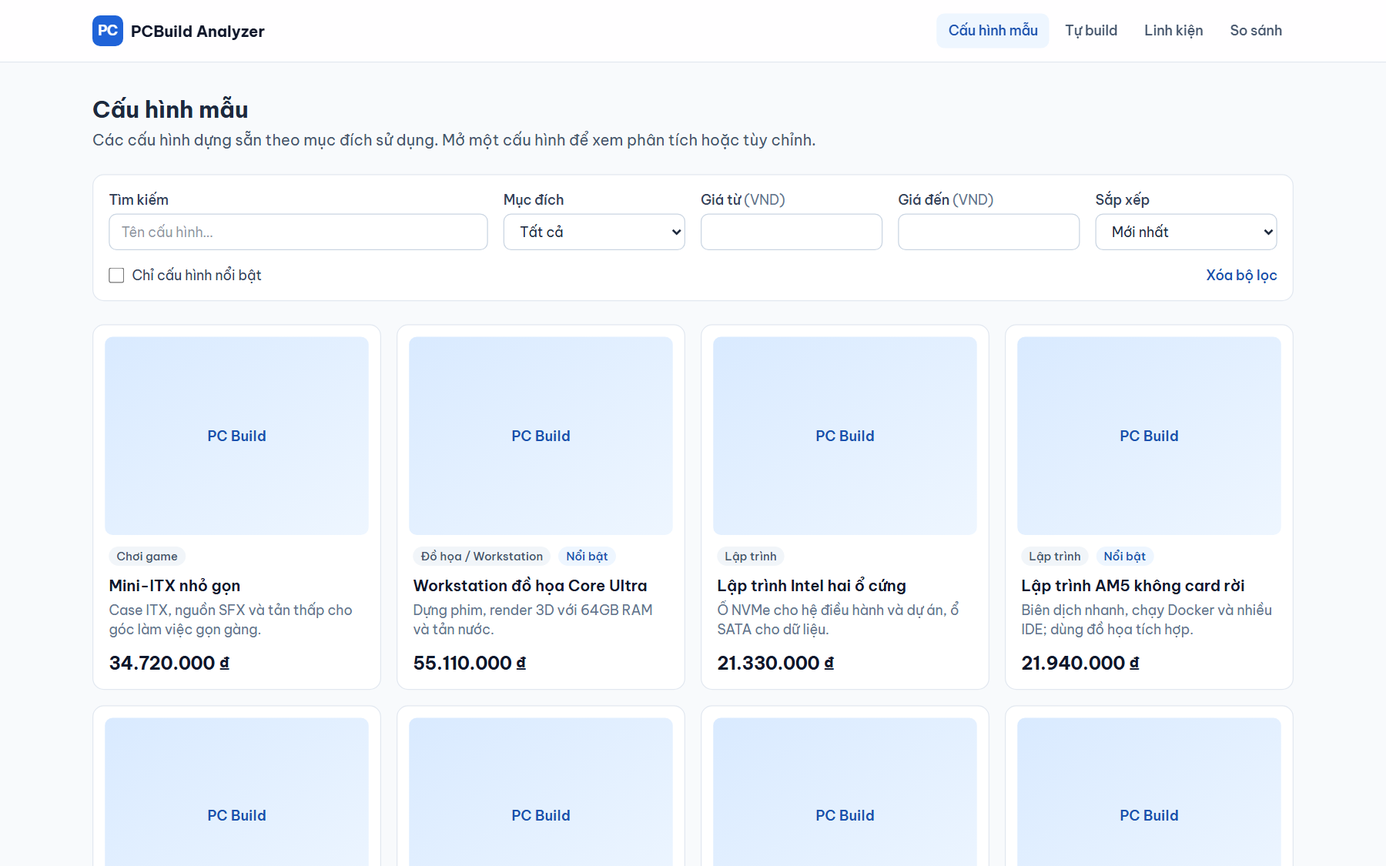
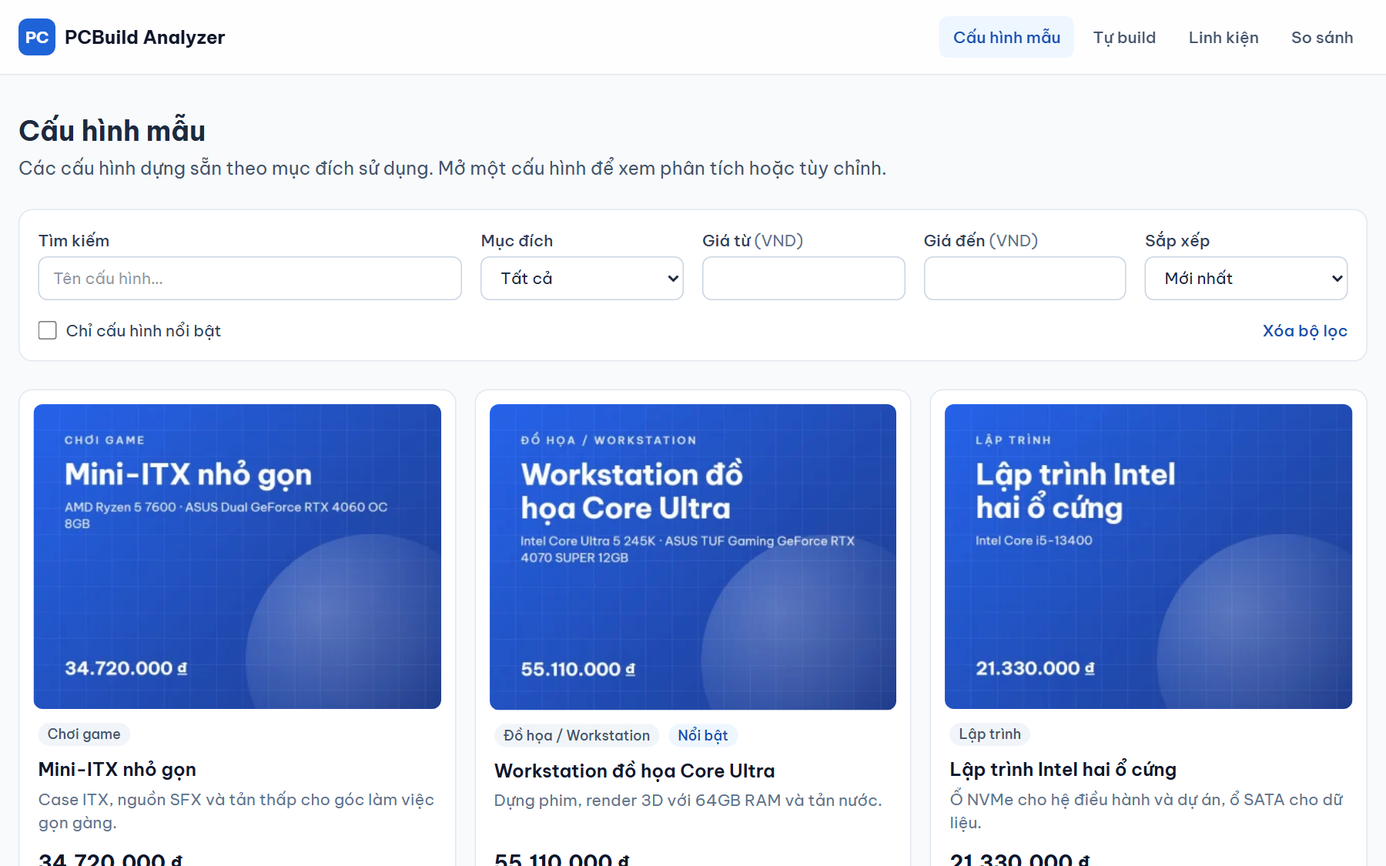
docs: retake the README images now that the real ones are live
The six screenshots were captured before any image had been uploaded, so
every product and build card showed the grey "PC Build" placeholder — the
exact thing the generated cards (D-041) exist to replace.

Also regenerates the architecture diagram: the spec pinned a commit from
before Phase 9, and archify verifies each referenced path at that
revision, so the pin has to move with the code. All 14 referenced files
still exist; the diagram itself is unchanged, since the architecture is.

Refreshes the test and coverage figures, which had drifted (272/966 ->
284/1001, lines 98.48% -> 98.42%), and drops the now-redundant composer
install from the setup steps: the dev container installs into the vendor
volume on first start (D-042).

diff --git a/docs/images/architecture.html b/docs/images/architecture.html
@@ -5086,7 +5086,7 @@ OTHER DEALINGS IN THE FONT SOFTWARE.
     </div>
 
     <script id="archify-guided-views-data" type="application/json">[{"id":"luong-chinh","label":"Luồng request chính","focus":["users","react","routes","controllers","services","repos","db"],"note":"Đường đi của một request từ trình duyệt xuống tới database."},{"id":"engine","label":"Engine phân tích","focus":["services","buildconfig","compat","analysis"],"note":"Phần lõi của dự án: PHP thuần, không chạm database hay HTTP."},{"id":"du-lieu","label":"Dữ liệu và ảnh","focus":["services","repos","db","cloudinary"],"note":"Hai nơi duy nhất chạm ra bên ngoài: database và Cloudinary."}]</script>
-    <script id="archify-source-evidence-data" type="application/json">{"schemaVersion":1,"verified":true,"repository":{"url":"https://github.com/tridinh288/PCBuild-Analyzer","revision":"6f85e0a82bc0f354fad57e46c1571666c226990b","shortRevision":"6f85e0a","label":"tridinh288/PCBuild-Analyzer","href":"https://github.com/tridinh288/PCBuild-Analyzer/tree/6f85e0a82bc0f354fad57e46c1571666c226990b"},"referenceCount":14,"nodes":{"react":[{"path":"frontend/src/services/api.js","label":"api.js","href":"https://github.com/tridinh288/PCBuild-Analyzer/blob/6f85e0a82bc0f354fad57e46c1571666c226990b/frontend/src/services/api.js"},{"path":"frontend/src/reducers/builderReducer.js","label":"builderReducer","href":"https://github.com/tridinh288/PCBuild-Analyzer/blob/6f85e0a82bc0f354fad57e46c1571666c226990b/frontend/src/reducers/builderReducer.js"}],"routes":[{"path":"backend/routes/api.php","label":"api.php","href":"https://github.com/tridinh288/PCBuild-Analyzer/blob/6f85e0a82bc0f354fad57e46c1571666c226990b/backend/routes/api.php"},{"path":"backend/config/trustedproxy.php","label":"trusted proxies","href":"https://github.com/tridinh288/PCBuild-Analyzer/blob/6f85e0a82bc0f354fad57e46c1571666c226990b/backend/config/trustedproxy.php"}],"controllers":[{"path":"backend/app/Http/Controllers/Api/BuilderController.php","label":"BuilderController","href":"https://github.com/tridinh288/PCBuild-Analyzer/blob/6f85e0a82bc0f354fad57e46c1571666c226990b/backend/app/Http/Controllers/Api/BuilderController.php"},{"path":"backend/app/Http/Requests/BuilderOptionsRequest.php","label":"Form Request","href":"https://github.com/tridinh288/PCBuild-Analyzer/blob/6f85e0a82bc0f354fad57e46c1571666c226990b/backend/app/Http/Requests/BuilderOptionsRequest.php"}],"compat":[{"path":"backend/app/Domain/Compatibility/CompatibilityEngine.php","label":"CompatibilityEngine","href":"https://github.com/tridinh288/PCBuild-Analyzer/blob/6f85e0a82bc0f354fad57e46c1571666c226990b/backend/app/Domain/Compatibility/CompatibilityEngine.php"},{"path":"backend/app/Domain/Compatibility/Rules/PsuWattageRule.php","label":"PsuWattageRule","href":"https://github.com/tridinh288/PCBuild-Analyzer/blob/6f85e0a82bc0f354fad57e46c1571666c226990b/backend/app/Domain/Compatibility/Rules/PsuWattageRule.php"}],"services":[{"path":"backend/app/Services/BuilderService.php","label":"BuilderService","href":"https://github.com/tridinh288/PCBuild-Analyzer/blob/6f85e0a82bc0f354fad57e46c1571666c226990b/backend/app/Services/BuilderService.php"}],"buildconfig":[{"path":"backend/app/Domain/Configuration/BuildConfiguration.php","label":"BuildConfiguration","href":"https://github.com/tridinh288/PCBuild-Analyzer/blob/6f85e0a82bc0f354fad57e46c1571666c226990b/backend/app/Domain/Configuration/BuildConfiguration.php"},{"path":"backend/app/Domain/Hardware/HardwareFactory.php","label":"HardwareFactory","href":"https://github.com/tridinh288/PCBuild-Analyzer/blob/6f85e0a82bc0f354fad57e46c1571666c226990b/backend/app/Domain/Hardware/HardwareFactory.php"}],"repos":[{"path":"backend/app/Repositories/Eloquent/ProductRepository.php","label":"ProductRepository","href":"https://github.com/tridinh288/PCBuild-Analyzer/blob/6f85e0a82bc0f354fad57e46c1571666c226990b/backend/app/Repositories/Eloquent/ProductRepository.php"}],"analysis":[{"path":"backend/app/Domain/Analysis/BuildAnalyzer.php","label":"BuildAnalyzer","href":"https://github.com/tridinh288/PCBuild-Analyzer/blob/6f85e0a82bc0f354fad57e46c1571666c226990b/backend/app/Domain/Analysis/BuildAnalyzer.php"},{"path":"backend/app/Domain/Analysis/Strategies/GamingStrategy.php","label":"GamingStrategy","href":"https://github.com/tridinh288/PCBuild-Analyzer/blob/6f85e0a82bc0f354fad57e46c1571666c226990b/backend/app/Domain/Analysis/Strategies/GamingStrategy.php"}]}}</script>
+    <script id="archify-source-evidence-data" type="application/json">{"schemaVersion":1,"verified":true,"repository":{"url":"https://github.com/tridinh288/PCBuild-Analyzer","revision":"adf1fece229d5f34e9536079257bf424cc2a160e","shortRevision":"adf1fec","label":"tridinh288/PCBuild-Analyzer","href":"https://github.com/tridinh288/PCBuild-Analyzer/tree/adf1fece229d5f34e9536079257bf424cc2a160e"},"referenceCount":14,"nodes":{"react":[{"path":"frontend/src/services/api.js","label":"api.js","href":"https://github.com/tridinh288/PCBuild-Analyzer/blob/adf1fece229d5f34e9536079257bf424cc2a160e/frontend/src/services/api.js"},{"path":"frontend/src/reducers/builderReducer.js","label":"builderReducer","href":"https://github.com/tridinh288/PCBuild-Analyzer/blob/adf1fece229d5f34e9536079257bf424cc2a160e/frontend/src/reducers/builderReducer.js"}],"routes":[{"path":"backend/routes/api.php","label":"api.php","href":"https://github.com/tridinh288/PCBuild-Analyzer/blob/adf1fece229d5f34e9536079257bf424cc2a160e/backend/routes/api.php"},{"path":"backend/config/trustedproxy.php","label":"trusted proxies","href":"https://github.com/tridinh288/PCBuild-Analyzer/blob/adf1fece229d5f34e9536079257bf424cc2a160e/backend/config/trustedproxy.php"}],"controllers":[{"path":"backend/app/Http/Controllers/Api/BuilderController.php","label":"BuilderController","href":"https://github.com/tridinh288/PCBuild-Analyzer/blob/adf1fece229d5f34e9536079257bf424cc2a160e/backend/app/Http/Controllers/Api/BuilderController.php"},{"path":"backend/app/Http/Requests/BuilderOptionsRequest.php","label":"Form Request","href":"https://github.com/tridinh288/PCBuild-Analyzer/blob/adf1fece229d5f34e9536079257bf424cc2a160e/backend/app/Http/Requests/BuilderOptionsRequest.php"}],"compat":[{"path":"backend/app/Domain/Compatibility/CompatibilityEngine.php","label":"CompatibilityEngine","href":"https://github.com/tridinh288/PCBuild-Analyzer/blob/adf1fece229d5f34e9536079257bf424cc2a160e/backend/app/Domain/Compatibility/CompatibilityEngine.php"},{"path":"backend/app/Domain/Compatibility/Rules/PsuWattageRule.php","label":"PsuWattageRule","href":"https://github.com/tridinh288/PCBuild-Analyzer/blob/adf1fece229d5f34e9536079257bf424cc2a160e/backend/app/Domain/Compatibility/Rules/PsuWattageRule.php"}],"services":[{"path":"backend/app/Services/BuilderService.php","label":"BuilderService","href":"https://github.com/tridinh288/PCBuild-Analyzer/blob/adf1fece229d5f34e9536079257bf424cc2a160e/backend/app/Services/BuilderService.php"}],"buildconfig":[{"path":"backend/app/Domain/Configuration/BuildConfiguration.php","label":"BuildConfiguration","href":"https://github.com/tridinh288/PCBuild-Analyzer/blob/adf1fece229d5f34e9536079257bf424cc2a160e/backend/app/Domain/Configuration/BuildConfiguration.php"},{"path":"backend/app/Domain/Hardware/HardwareFactory.php","label":"HardwareFactory","href":"https://github.com/tridinh288/PCBuild-Analyzer/blob/adf1fece229d5f34e9536079257bf424cc2a160e/backend/app/Domain/Hardware/HardwareFactory.php"}],"repos":[{"path":"backend/app/Repositories/Eloquent/ProductRepository.php","label":"ProductRepository","href":"https://github.com/tridinh288/PCBuild-Analyzer/blob/adf1fece229d5f34e9536079257bf424cc2a160e/backend/app/Repositories/Eloquent/ProductRepository.php"}],"analysis":[{"path":"backend/app/Domain/Analysis/BuildAnalyzer.php","label":"BuildAnalyzer","href":"https://github.com/tridinh288/PCBuild-Analyzer/blob/adf1fece229d5f34e9536079257bf424cc2a160e/backend/app/Domain/Analysis/BuildAnalyzer.php"},{"path":"backend/app/Domain/Analysis/Strategies/GamingStrategy.php","label":"GamingStrategy","href":"https://github.com/tridinh288/PCBuild-Analyzer/blob/adf1fece229d5f34e9536079257bf424cc2a160e/backend/app/Domain/Analysis/Strategies/GamingStrategy.php"}]}}</script>
     <script id="archify-i18n-data" type="application/json">{"locale":"en","messages":{"viewer.kind.frontend":"Frontend","viewer.kind.backend":"Backend","viewer.kind.database":"Database","viewer.kind.cloud":"Cloud","viewer.kind.security":"Security","viewer.kind.messagebus":"Message bus","viewer.kind.external":"External","viewer.kind.neutral":"Neutral","viewer.kind.node":"Node","viewer.kind.start":"Start","viewer.kind.active":"Active","viewer.kind.waiting":"Waiting","viewer.kind.decision":"Decision","viewer.kind.success":"Success","viewer.kind.failure":"Failure","viewer.toolbar.actions":"Diagram actions","viewer.theme.toggle.title":"Toggle theme (T)","viewer.theme.toggle":"Toggle color theme","viewer.theme.dark":"Dark","viewer.theme.light":"Light","viewer.preset.choose.title":"Choose visual style (S cycles)","viewer.preset.choose":"Choose visual style","viewer.preset.style":"Style","viewer.preset.menu":"Visual style","viewer.preset.identity":"Visual identity","viewer.preset.cycles":"S cycles","viewer.preset.classic":"Classic","viewer.preset.classic.short":"Classic","viewer.preset.classic.hint":"Stable technical default","viewer.preset.flow":"Signal Flow","viewer.preset.flow.short":"Flow","viewer.preset.flow.hint":"Motion-forward presentation","viewer.preset.blueprint":"Blueprint","viewer.preset.blueprint.hint":"Engineering review","viewer.preset.editorial":"Editorial","viewer.preset.editorial.hint":"Publication and launch notes","viewer.preset.badge.signalFlow":"SIGNAL FLOW","viewer.preset.badge.blueprint":"BLUEPRINT / REV 01","viewer.preset.badge.editorial":"EDITORIAL / FIELD NOTE","viewer.preset.badge.editorialPlate":"ARCHIFY / PLATE 04","viewer.preset.current":"Visual style: {style}. Choose visual style","viewer.motion.live":"Live","viewer.motion.still":"Still","viewer.motion.pause":"Pause motion","viewer.motion.resume":"Resume motion","viewer.motion.reduced":"Motion paused by reduced-motion preference","viewer.motion.hidden":"Motion paused while this page is hidden","viewer.motion.yielding":"Pause motion; currently yielding to {owner}","viewer.motion.yielding.title":"Live preview enabled · yielding to {owner}","viewer.owner.story":"the guided story","viewer.owner.chapter":"the active chapter","viewer.owner.chapterPreview":"the chapter delta preview","viewer.owner.handoff":"the chapter handoff","viewer.owner.route":"Route Probe","viewer.owner.lens":"Semantic Lens","viewer.owner.relationship":"Relationship Preview","viewer.owner.intent":"Intent Trace","viewer.owner.focus":"semantic focus","viewer.owner.legend":"legend preview","viewer.owner.reader":"reader interaction","viewer.present.enter":"Enter presentation stage","viewer.present.enter.title":"Presentation stage (F)","viewer.present.exit":"Exit presentation stage","viewer.present.exit.title":"Exit presentation stage (F or Escape)","viewer.present.present":"Present","viewer.present.exit.label":"Exit","viewer.export.button":"Export","viewer.export.button.title":"Export diagram (E)","viewer.export.diagram":"Export diagram","viewer.export.menu":"Export","viewer.export.subtitle":"Portable, clean outputs","viewer.export.share":"Share","viewer.export.shareCard":"Share Card","viewer.export.routeShareCard":"Route Share Card","viewer.export.reachShareCard":"Reach Share Card","viewer.export.copyShareCard":"Copy Share Card","viewer.export.copyDiagram":"Copy diagram","viewer.export.clipboardPng":"PNG to clipboard","viewer.export.raster":"Raster images","viewer.export.image":"Image","viewer.export.lossless":"Lossless image","viewer.export.compact":"Compact image","viewer.export.modern":"Modern image","viewer.export.vectorMotion":"Vector and motion","viewer.export.vectorMotion.heading":"Vector \u0026 motion","viewer.export.editable":"Editable vector","viewer.export.motion6s":"6s motion","viewer.export.unsupported":"Not supported by this browser","viewer.export.clipboardUnsupported":"Clipboard image write not supported by this browser","viewer.export.clipboardUnsupported.period":"Clipboard image write not supported by this browser.","viewer.export.clipboardUnsupported.short":"Clipboard image write not supported in this browser.","viewer.export.motionUnavailable":"Motion capture unavailable in this browser","viewer.export.webmUnavailable":"WebM unavailable in this browser","viewer.export.failed":"Export failed: {message}","viewer.export.unknownVariant":"Unknown Share Card variant: {variant}","viewer.export.routeRequired":"Trace a route before exporting a Route Share Card","viewer.export.reachRequired":"Trace authored reach before exporting a Reach Share Card","viewer.export.unknown":"unknown","viewer.export.routeFailed":"Route Share Card export failed: {message}","viewer.export.reachFailed":"Reach Share Card export failed: {message}","viewer.export.copyFailed":"Copy failed: {message}","viewer.export.copiedPng":"Copied PNG to clipboard","viewer.export.copiedShare":"Copied Share Card","viewer.export.downloadedShare":"Downloaded Share Card","viewer.export.downloadedRoute":"Downloaded Route Share Card","viewer.export.downloadedReach":"Downloaded Reach Share Card","viewer.export.downloadedWebm":"Downloaded WebM","viewer.export.recording":"Recording 6 seconds of motion…","viewer.export.card.routeSummary.one":"Route: {source} → {target} · {count} directed hop","viewer.export.card.routeSummary.other":"Route: {source} → {target} · {count} directed hops","viewer.export.card.reachSummary":"Authored {direction} from {origin} · {nodes} · {links} · max {hops}","viewer.export.card.node.one":"{count} node","viewer.export.card.node.other":"{count} nodes","viewer.export.card.link.one":"{count} link","viewer.export.card.link.other":"{count} links","viewer.export.card.hop.one":"{count} hop","viewer.export.card.hop.other":"{count} hops","viewer.export.card.routeBadge":"ARCHIFY · ROUTE · {hops}","viewer.export.card.reachBadge":"ARCHIFY · {direction} REACH","viewer.export.card.defaultBadge":"ARCHIFY · {preset} · {theme}","viewer.export.direction.upstream":"Upstream","viewer.export.direction.downstream":"Downstream","viewer.export.error.canvasUnavailable":"Canvas unavailable for {label}","viewer.export.error.contextUnavailable":"2D canvas context unavailable for {label}","viewer.export.error.toBlobUnavailable":"canvas.toBlob unavailable for {label}","viewer.export.error.toBlobNull":"canvas.toBlob returned no data for {label}","viewer.export.error.variantsCombined":"Share Card variants cannot be combined","viewer.export.error.viewerState":"Share Card export could not remove temporary viewer state","viewer.export.error.routeState":"Route Card export could not preserve the resolved route safely","viewer.export.error.reachState":"Reach Card export could not preserve authored reach safely","viewer.export.error.webmRequirements":"WebM motion export requires a trace animation and browser MediaRecorder support","viewer.export.error.mediaRecorder":"MediaRecorder failed","viewer.export.error.emptyWebm":"MediaRecorder produced an empty WebM","viewer.export.error.webmBackground":"SVG background could not be loaded for WebM export","viewer.guided.region":"Guided diagram views","viewer.guided.previous":"Previous guided view","viewer.guided.previous.title":"Previous guided view ([)","viewer.guided.next":"Next guided view","viewer.guided.next.title":"Next guided view (])","viewer.guided.views":"Guided views","viewer.guided.explore":"Explore this system","viewer.guided.intro":"Step through curated paths without changing the source diagram.","viewer.guided.trail":"Story trail","viewer.guided.beat":"Beat","viewer.guided.nextBeat":"Next","viewer.guided.play":"Play guided story","viewer.guided.play.title":"Play guided story (P)","viewer.guided.pause":"Pause guided story","viewer.guided.pause.title":"Pause guided story (P)","viewer.guided.replay":"Replay guided story","viewer.guided.replay.title":"Replay guided story (P)","viewer.guided.playStory":"Play story","viewer.guided.pauseStory":"Pause","viewer.guided.replayStory":"Replay story","viewer.guided.motionUnavailable":"Story playback unavailable while motion is Still","viewer.guided.enableMotion":"Switch motion to Live to play the guided story","viewer.guided.selectBeatLink":"Select a Story Beat to copy its exact link","viewer.guided.copyMoment":"Copy moment","viewer.guided.momentCopied":"Moment link copied","viewer.guided.momentCopyFailed":"Could not copy story moment link","viewer.guided.copied":"Copied","viewer.guided.copyFailed":"Copy failed","viewer.guided.showAll":"Show all","viewer.guided.showAll.aria":"Show entire diagram","viewer.guided.chapters":"Story chapters","viewer.guided.storyTrail":"Story trail for {label}: {count} beats","viewer.guided.chapter.open":"Open chapter {index} of {total}: {label}, {count} stops","viewer.guided.chapter.current":"Current chapter {index} of {total}: {label}, {count} stops","viewer.guided.chapter.selectedNodes":"{count} selected nodes","viewer.guided.chapter.stops":"{count} stops","viewer.guided.chapter.stop.one":"{count} stop","viewer.guided.chapter.stop.other":"{count} stops","viewer.guided.chapter.current.title":"{label} — current chapter, {count} stops","viewer.guided.chapter.delta.expanded":"{stay} stay, {enter} enter, {leave} leave","viewer.guided.chapter.delta.aria":"Open chapter {index} of {total}: {label}. Chapter focus delta: {delta}","viewer.guided.chapter.delta.title":"{label} — {delta} chapter focus","viewer.guided.handoff":"{from} → {to} · via {label}","viewer.guided.share.chapter":"Chapter {index} / {total}","viewer.guided.share.initial":"Chapter 01 / 01","viewer.guided.share.default":"Guided chapter","viewer.guided.state.ready":"Ready","viewer.guided.state.playing":"Playing","viewer.guided.state.settled":"Settled","viewer.guided.state.paused":"Paused","viewer.guided.state.pinned":"Pinned","viewer.guided.state.still":"Still","viewer.guided.share.step":"Step {index} / {total} · {label}","viewer.guided.share.staticMoment":"{step} · Static moment","viewer.guided.share.complete":"{count} steps complete · {note}","viewer.guided.share.settled":"Path settled for reading.","viewer.guided.share.staticPath":"{count} steps · Static path","viewer.guided.share.ready":"{count} steps · Ready","viewer.guided.share.aria":"{state} chapter {index} of {total}: {label}. {beat}. {route}","viewer.guided.beat.start":"Beat {index} / {total} · {label} · starting point","viewer.guided.beat.forward":"Beat {index} / {total} · {from} → {to}","viewer.guided.beat.reverse":"Beat {index} / {total} · {from} → {to} · reverse authored link","viewer.guided.beat.multiple":"Beat {index} / {total} · {from} ⇄ {to} · {count} authored links","viewer.guided.beat.group":"Beat {index} / {total} · {from} · {to} · grouped · no direct link","viewer.guided.beat.aria.prefix":"Story beat {index} of {total}: {label}. ","viewer.guided.beat.aria.start":"Starting point.","viewer.guided.beat.aria.forward":"From {from} through one authored forward relationship.","viewer.guided.beat.aria.reverse":"From {from}; the authored relationship points from {to} to {from}.","viewer.guided.beat.aria.multiple":"From {from} through {count} authored relationships; shown without arbitrary motion.","viewer.guided.beat.aria.group":"Grouped from {from} with no direct authored relationship.","viewer.guided.caption.start":"Starting point","viewer.guided.caption.grouped":"Grouped transition · no direct authored link","viewer.guided.caption.more":" +{count} more","viewer.guided.caption.reverse":"Reverse authored relationship","viewer.guided.caption.relationships":"{count} authored relationships","viewer.guided.caption.relationship":"Authored relationship","viewer.guided.caption.direction":"authored direction: {from} → {to}","viewer.guided.caption.starting":"Authored starting point","viewer.guided.beatLink":"Copy link to current story moment: Beat {index} of {total}: {label}","viewer.guided.noStory":"This diagram has no authored guided story.","viewer.guide.eyebrow":"Diagram guide","viewer.guide.close":"Close diagram guide","viewer.guide.inspecting":"Inspecting compiled semantics","viewer.guide.actions":"Diagram exploration actions","viewer.guide.find":"Find any node","viewer.guide.find.hint":"Search labels, responsibilities, kinds, and stable IDs.","viewer.guide.route":"Trace a route","viewer.guide.route.aria":"Trace a directed route","viewer.guide.route.hint":"Ask how two semantic nodes connect in authored direction.","viewer.guide.map":"See the whole system","viewer.guide.map.hint":"Open Semantic Radar with a live viewport and stable nodes.","viewer.guide.lens":"Compare semantic kinds","viewer.guide.lens.hint":"Count roles, reveal their traffic, and compare direct authored links.","viewer.guide.story":"Play the guided story","viewer.guide.story.hint":"Walk the authored chapters and real relationships.","viewer.guide.present":"Enter Presentation Stage","viewer.guide.present.hint":"Give the live diagram the viewport without changing export.","viewer.guide.shortcuts":"Additional keyboard shortcuts","viewer.guide.shortcut.export":"Export","viewer.guide.shortcut.theme":"Theme","viewer.guide.shortcut.style":"Style","viewer.guide.shortcut.reset":"Reset","viewer.guide.shortcut.zoomIn":"Zoom in","viewer.guide.shortcut.zoomOut":"Zoom out","viewer.guide.shortcut.close":"Close","viewer.guide.facts":"{nodes} · {relationships} · {views}","viewer.guide.fact.node.one":"{count} semantic node","viewer.guide.fact.node.other":"{count} semantic nodes","viewer.guide.fact.relationship.one":"{count} relationship","viewer.guide.fact.relationship.other":"{count} relationships","viewer.guide.fact.view.one":"{count} guided view","viewer.guide.fact.view.other":"{count} guided views","viewer.guide.story.available.one":"Walk {count} authored chapter and its real relationships.","viewer.guide.story.available.other":"Walk {count} authored chapters and their real relationships.","viewer.guide.story.unavailable":"No authored guided story in this diagram.","viewer.guide.open":"Open diagram guide","viewer.guide.noStory":"This diagram has no authored guided story.","viewer.finder.title":"Find a node","viewer.finder.close":"Close node finder","viewer.finder.placeholder":"Search labels or IDs","viewer.finder.search":"Search diagram nodes","viewer.finder.results":"Diagram nodes","viewer.finder.empty":"No matching nodes","viewer.finder.result.focus":"Focus {label}","viewer.finder.result.routeStart":"Choose {label} as route start","viewer.finder.result.routeTarget":"Choose {label} as route destination, {links}","viewer.finder.status.empty":"No matching nodes","viewer.finder.status.count.one":"{count} matching node","viewer.finder.status.count.other":"{count} matching nodes","viewer.finder.noun.nodes":"nodes","viewer.finder.link.one":"{count} link","viewer.finder.link.other":"{count} links","viewer.finder.result.focus.one":"Focus {label}, {count} related connection","viewer.finder.result.focus.other":"Focus {label}, {count} related connections","viewer.finder.status.filtered":"{visible} of {available} {noun}","viewer.finder.status.all":"{available} {noun}","viewer.passport.eyebrow":"Semantic passport","viewer.passport.metadata":"Node metadata","viewer.passport.evidence":"Verified source evidence","viewer.passport.verified":"Verified source","viewer.passport.verificationScope":"Verified against local Git at the pinned revision. Remote access has not been checked.","viewer.passport.reach":"Authored reach","viewer.passport.reach.trace":"Trace authored reachability","viewer.passport.upstream":"Upstream","viewer.passport.downstream":"Downstream","viewer.passport.upstream.trace":"Trace upstream authored reachability","viewer.passport.downstream.trace":"Trace downstream authored reachability","viewer.passport.close":"Close semantic passport","viewer.passport.copy":"Copy link","viewer.passport.copy.focus":"Copy link to focused node","viewer.passport.relations":"Relations","viewer.passport.relations.show":"Show connected relationships","viewer.passport.relations.hide":"Hide connected relationships","viewer.passport.relations.list":"Connected relationships","viewer.passport.copyRelation":"Copy relation","viewer.passport.copyNode":"Copy node","viewer.passport.copyPinned":"Copy link to pinned relationship","viewer.passport.copySource":"Copy link to source node","viewer.passport.copy.focused.success":"Focused node link copied","viewer.passport.copy.pinned.success":"Pinned relationship link copied","viewer.passport.copy.focused.failed":"Could not copy focused node link","viewer.passport.copy.pinned.failed":"Could not copy pinned relationship link","viewer.passport.relationship.none":"No connected relationships","viewer.passport.relationship.count.one":"{count} relation","viewer.passport.relationship.count.other":"{count} relations","viewer.passport.relationship.show.one":"Show {count} connected relationship","viewer.passport.relationship.show.other":"Show {count} connected relationships","viewer.passport.relationship.summary":"{out} outgoing · {in} incoming{loops}","viewer.passport.relationship.loops":" · {count} loop","viewer.passport.relationship.explorer":"Direct relationship explorer","viewer.passport.relationship.help":"Use arrow keys to explore relationships. Press Enter or Space to pin details; Escape clears.","viewer.passport.relationship.loopsBack":"loops back","viewer.passport.relationship.connectsTo":"connects to","viewer.passport.relationship.connectsFrom":"connects from","viewer.passport.relationship.pinned":"Pinned relationship · {from} → {to} · {label}","viewer.passport.relationship.inspect":"Inspect relationship {index} of {total}: {from} to {to}, {label}. Press Enter for details.","viewer.passport.relationship.group.out":"Outgoing","viewer.passport.relationship.group.in":"Incoming","viewer.passport.relationship.group.loop":"Self loops","viewer.passport.relationship.row":"{group}: {relationship}, {neighbor}","viewer.passport.relationship.direction.out":"OUT →","viewer.passport.relationship.direction.in":"← IN","viewer.passport.relationship.direction.loop":"LOOP","viewer.passport.sourceCount.one":"{count} verified source reference","viewer.passport.sourceCount.other":"{count} verified source references","viewer.passport.sourceMarker":"SRC","viewer.passport.beacon.one":"{count} verified source; focus this node to inspect","viewer.passport.beacon.other":"{count} verified sources; focus this node to inspect","viewer.passport.repository.open":"Open verified repository revision {revision}","viewer.passport.source.open":"Open verified source {path} at revision {revision}","viewer.passport.source.openLink":"Open ↗","viewer.passport.reach.upstream.one":"Trace {count} upstream authored node","viewer.passport.reach.upstream.other":"Trace {count} upstream authored nodes","viewer.passport.reach.downstream.one":"Trace {count} downstream authored node","viewer.passport.reach.downstream.other":"Trace {count} downstream authored nodes","viewer.passport.reach.noUpstream":"No upstream authored nodes","viewer.passport.reach.noDownstream":"No downstream authored nodes","viewer.passport.reach.status":"{direction} · {nodes} nodes · {links} links · max {hops} hops","viewer.route.eyebrow":"Route probe","viewer.route.start":"Choose a start node","viewer.route.start.find":"Find start","viewer.route.start.find.aria":"Find a route start","viewer.route.copy":"Copy link","viewer.route.copy.aria":"Copy link to traced route","viewer.route.clear":"Clear","viewer.route.clear.aria":"Clear route probe","viewer.route.traced":"Traced route","viewer.route.pickTwo":"Pick two semantic nodes on the diagram","viewer.route.pickOne":"Pick a semantic node on the diagram","viewer.route.controls":"Route journey controls","viewer.route.previous":"Previous route position","viewer.route.play":"Play route journey","viewer.route.pause":"Pause route journey","viewer.route.replay":"Replay route journey","viewer.route.next":"Next route position","viewer.route.journey":"Journey","viewer.route.pause.label":"Pause","viewer.route.replay.label":"Replay","viewer.route.overview":"Overview","viewer.route.overview.aria":"Show complete route overview","viewer.route.instructions":"Choose the source, then the destination. Direction matters.","viewer.route.destination":"Choose a destination from {label}","viewer.route.destination.find":"Find target","viewer.route.destination.find.aria":"Find a reachable route destination","viewer.route.differentDestination":"Choose a different destination","viewer.route.distinct":"A route needs two distinct semantic nodes.","viewer.route.unreachable":"No directed route to {label}","viewer.route.unreachable.detail":"{target} is not reachable from {source}. Pick a highlighted destination.","viewer.route.start.instructions":"Select the source. The next step will reveal only directed destinations.","viewer.route.copy.success":"Traced route link copied","viewer.route.copy.failed":"Could not copy traced route link","viewer.route.position":"Route position {index} of {total}: {label}","viewer.route.step":"Step {index} of {total} · {phase} · {label}","viewer.route.motionRequired":"Automatic journey requires Live motion","viewer.route.trigger.clear":"Clear traced route","viewer.route.overview.status":"{nodes} · {hops} · shortest authored route","viewer.route.overview.node.one":"{count} node","viewer.route.overview.node.other":"{count} nodes","viewer.route.overview.hop.one":"{count} directed hop","viewer.route.overview.hop.other":"{count} directed hops","viewer.route.phase.playing":"Playing","viewer.route.phase.complete":"Complete","viewer.route.phase.inspecting":"Inspecting","viewer.route.destination.count.one":"{count} directed destination available. Pick a highlighted node.","viewer.route.destination.count.other":"{count} directed destinations available. Pick a highlighted node.","viewer.route.noOutgoing":"No outgoing route starts here. Clear and choose another source.","viewer.route.result.title":"{source} to {target}","viewer.route.finder.source.title":"Choose route start","viewer.route.finder.source.placeholder":"Search route sources","viewer.route.finder.source.empty":"No matching route sources","viewer.route.finder.source.results":"Nodes that can start a route","viewer.route.finder.source.noun":"route sources","viewer.route.finder.source.badge":"start","viewer.route.finder.target.title":"Destination from {label}","viewer.route.finder.target.placeholder":"Search reachable destinations","viewer.route.finder.target.empty":"No matching reachable destinations","viewer.route.finder.target.results":"Reachable route destinations","viewer.route.finder.target.noun":"reachable destinations","viewer.route.hop.one":"{count} hop","viewer.route.hop.other":"{count} hops","viewer.lens.eyebrow":"Semantic lens","viewer.lens.title":"Compare system roles","viewer.lens.close":"Close semantic lens","viewer.lens.instruction":"Choose up to two semantic kinds. One reveals its real traffic; two compare only direct authored relationships.","viewer.lens.kinds":"Semantic kinds","viewer.lens.choose":"Choose a kind to inspect its nodes and touching relationships.","viewer.lens.copy":"Copy link to semantic lens","viewer.lens.clear":"Clear semantic lens","viewer.lens.open":"Open semantic lens","viewer.lens.openActive":"Open active semantic lens","viewer.lens.legend":"Semantic legend","viewer.lens.legend.inspect.one":"Inspect {label}, {count} node","viewer.lens.legend.inspect.other":"Inspect {label}, {count} nodes","viewer.lens.kind.count.one":"{label}, {count} node","viewer.lens.kind.count.other":"{label}, {count} nodes","viewer.lens.compare.one":"{first} → {second}: {forward} · {second} → {first}: {reverse} · {count} direct relationship","viewer.lens.compare.other":"{first} → {second}: {forward} · {second} → {first}: {reverse} · {count} direct relationships","viewer.lens.single":"{nodes} · {relationships} · connected peers remain visible","viewer.lens.node.one":"{count} {label} node","viewer.lens.node.other":"{count} {label} nodes","viewer.lens.relationship.one":"{count} touching relationship","viewer.lens.relationship.other":"{count} touching relationships","viewer.radar.title":"Semantic radar","viewer.radar.building":"Building overview","viewer.radar.openFull":"Open full semantic radar","viewer.radar.open":"Open radar","viewer.radar.close":"Close semantic radar","viewer.radar.surface":"Diagram overview. Click a node to focus it, or use arrow keys to pan.","viewer.radar.click":"Click node","viewer.radar.drag":"Drag to pan","viewer.radar.space":"Semantic radar needs more MAP space.","viewer.radar.nodes":"Semantic diagram radar nodes","viewer.radar.focus":"Focus {label} from Semantic Radar","viewer.radar.status":"{count} nodes · {viewport}","viewer.radar.fullMap":"{count} nodes · full map","viewer.radar.compacted":"Radar compacted to avoid covering the Semantic Passport or MAP controls.","viewer.radar.cancelWaiting":"Cancel semantic radar waiting for more MAP space","viewer.radar.needsSpace":"Semantic radar needs more visible MAP space","viewer.radar.viewport.full":"full map","viewer.radar.viewport.width":"{percent}% width","viewer.radar.viewport.scale":"{percent}% viewport","viewer.nav.controls":"Diagram view controls","viewer.nav.route":"Trace a directed route","viewer.nav.route.title":"Trace route (R)","viewer.nav.route.short":"PATH","viewer.nav.radar":"Open semantic radar","viewer.nav.radar.title":"Semantic radar (M)","viewer.nav.radar.short":"MAP","viewer.nav.lens":"Open semantic lens","viewer.nav.lens.title":"Semantic lens (L)","viewer.nav.lens.short":"LENS","viewer.nav.find":"Find a node","viewer.nav.find.title":"Find a node (/)","viewer.nav.guide":"Open diagram guide","viewer.nav.guide.title":"Diagram guide (?)","viewer.nav.zoomOut":"Zoom out","viewer.nav.zoomOut.title":"Zoom out (-)","viewer.nav.reset":"Reset diagram view","viewer.nav.reset.title":"Reset view (0)","viewer.nav.read":"READ","viewer.nav.zoomIn":"Zoom in","viewer.nav.zoomIn.title":"Zoom in (+)","viewer.nav.camera":"{hint}. Reset diagram view","viewer.nav.camera.title":"{semantic}{hint} · reset view (0)","viewer.nav.camera.semantic":"Semantic camera active · ","viewer.nav.level.map":"MAP","viewer.nav.level.read":"READ","viewer.nav.level.full":"FULL","viewer.nav.level.auto":"AUTO","viewer.nav.detail.map":"Zoom in to reveal relationship labels and node context","viewer.nav.detail.read":"Zoom in again to reveal tags and annotations","viewer.nav.detail.full":"Full diagram detail","viewer.intent.summary":"{label}. {out} outgoing, {in} incoming{loops}. {total} connections. Press Enter for details.","viewer.intent.loops":", {count} self loop","viewer.common.copied":"Copied","viewer.common.copyFailed":"Copy failed","viewer.common.copyLink":"Copy link","viewer.common.clear":"Clear","viewer.common.close":"Close"}}</script>
     <div class="guided-views no-print" id="guided-views" hidden aria-label="Guided diagram views">
       <button id="guided-view-prev" type="button" aria-label="Previous guided view" title="Previous guided view ([)">&#8592;</button>

diff --git a/README.md b/README.md
@@ -4,7 +4,7 @@
 ![PHP](https://img.shields.io/badge/PHP-8.3-777BB4?logo=php&logoColor=white)
 ![Laravel](https://img.shields.io/badge/Laravel-13-FF2D20?logo=laravel&logoColor=white)
 ![React](https://img.shields.io/badge/React-19-61DAFB?logo=react&logoColor=black)
-![Tests](https://img.shields.io/badge/tests-272%20backend%20%C2%B7%2037%20frontend-success)
+![Tests](https://img.shields.io/badge/tests-284%20backend%20%C2%B7%2037%20frontend-success)
 
 Ứng dụng web phân tích cấu hình PC: xem các cấu hình mẫu, tùy chỉnh lại hoặc tự build từ đầu, rồi
 nhận ngay kết quả **kiểm tra tương thích**, **ước tính công suất** kèm mức nguồn khuyến nghị,
@@ -156,9 +156,8 @@ API và MySQL chạy trong Docker; React chạy trên host (D-025).
 cp backend/.env.example backend/.env
 #    đặt DB_PASSWORD=pcbuild_local (khớp docker-compose.yml) và ADMIN_EMAIL / ADMIN_PASSWORD
 
-# 2. API + MySQL
+# 2. API + MySQL  (lần đầu container tự chạy composer install, khoảng 20 giây)
 docker compose up -d --build
-docker compose exec app composer install
 docker compose exec app php artisan key:generate
 docker compose exec app php artisan migrate --seed
 
@@ -174,13 +173,18 @@ npm run dev                 # http://localhost:5173
 
 MySQL mở ở cổng `3307` trên host (user `pcbuild`) để dùng với HeidiSQL hoặc client GUI khác.
 
+> `vendor/` nằm trong named volume chứ không phải bind mount, vì đọc một file PHP qua bind mount của
+> Windows mất **63 ms** so với **0,009 ms** trên ổ đĩa container — đủ để mỗi request tốn 3 giây (D-042).
+> Vì vậy luôn chạy Composer qua `docker compose exec app composer ...`; cài trên host sẽ không đổi
+> thứ container đang dùng.
+
 > `VITE_API_URL` **phải có đuôi `/api`**. Thiếu phần này thì mọi request rơi vào 404 và trình duyệt
 > báo "Không kết nối được máy chủ", vì CORS chỉ áp cho các đường dẫn `api/*`.
 
 ## Kiểm thử
 
-**272 test backend** (966 assertion) và **37 test frontend**, chạy tự động bằng GitHub Actions ở mỗi
-lần push. Độ phủ dòng của backend là **98,48 %** (1553/1577), method 95,65 %, class 85,59 % —
+**284 test backend** (1001 assertion) và **37 test frontend**, chạy tự động bằng GitHub Actions ở mỗi
+lần push. Độ phủ dòng của backend là **98,42 %** (1617/1643), method 95,49 %, class 84,82 % —
 đo bằng PCOV, xem [docs/TESTING.md](docs/TESTING.md).
 PHPUnit chạy trên database `pcbuild_test` riêng (tạo bởi `docker/mysql/init`); test **không bao giờ
 gọi dịch vụ bên ngoài**.

diff --git a/docs/TESTING.md b/docs/TESTING.md
@@ -7,19 +7,20 @@ Re-measured at Phase 9 (2026-09-23); first written at the end of Phase 7. Decisi
 
 | Suite | Tool | Tests | Result |
 |---|---|---|---|
-| Backend | PHPUnit 12 (Laravel 13) on MySQL 8.4 | 272 tests, 966 assertions | ✅ pass |
+| Backend | PHPUnit 12 (Laravel 13) on MySQL 8.4 | 284 tests, 1001 assertions | ✅ pass |
 | Frontend | Vitest 5 | 37 tests (10 files) | ✅ pass |
 | Lint | Pint (PSR-12 / Laravel), oxlint (warnings denied) | — | ✅ clean |
 | CI | GitHub Actions: backend + frontend jobs on every push | — | ✅ green |
 
-**Backend coverage (PCOV):** lines **98.48 %** (1553/1577), methods 95.65 % (418/437),
-classes 85.59 % (95/111).
+**Backend coverage (PCOV):** lines **98.42 %** (1617/1643), methods 95.49 % (423/443),
+classes 84.82 % (95/112).
 Uncovered lines are hardware getters the engine does not use yet (`Cpu::threads`, `Psu::efficiencyRating`…),
 defensive branches (unknown strategy profile) and a few `VerifyDatabaseCommand` failure messages.
 
-The two tests added in Phase 8 (`RateLimitAndCorsTest`, for the client IP behind Cloudflare — D-038)
-raised the count from 270 to 272 but left the covered lines unchanged at 1553/1577: they exercise
-middleware configuration that the existing tests already reached, not new branches.
+The count grew from 272 to 284 after Phase 9: `ImportImagesCommandTest` (10) covers the image
+upload command (D-041) and two more cover `CloudinaryImageStorage` parsing a credential that was
+pasted with its variable name. Total lines rose with the new command, so the percentage moved only
+slightly; class coverage dipped because the new command added one class to the denominator.
 
 ## What is tested
 
